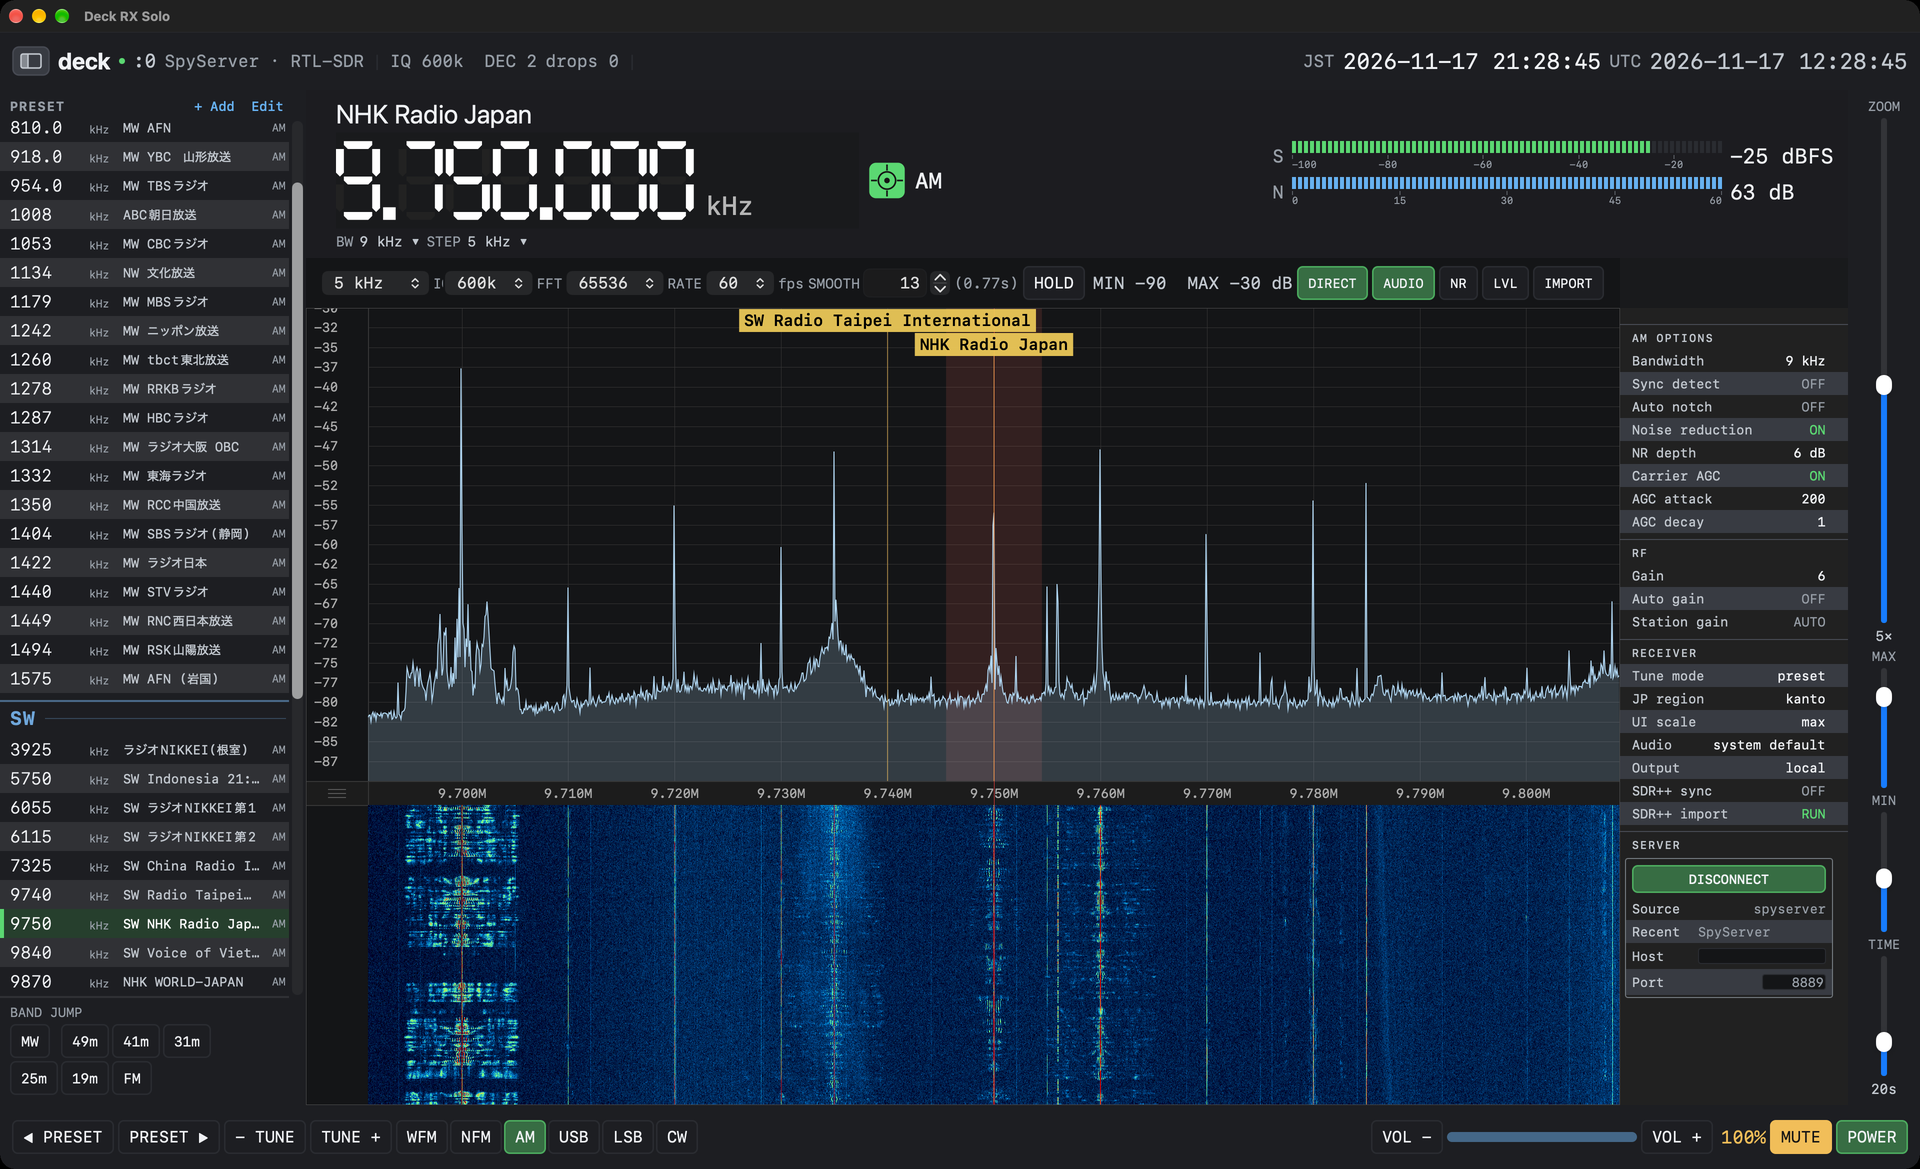
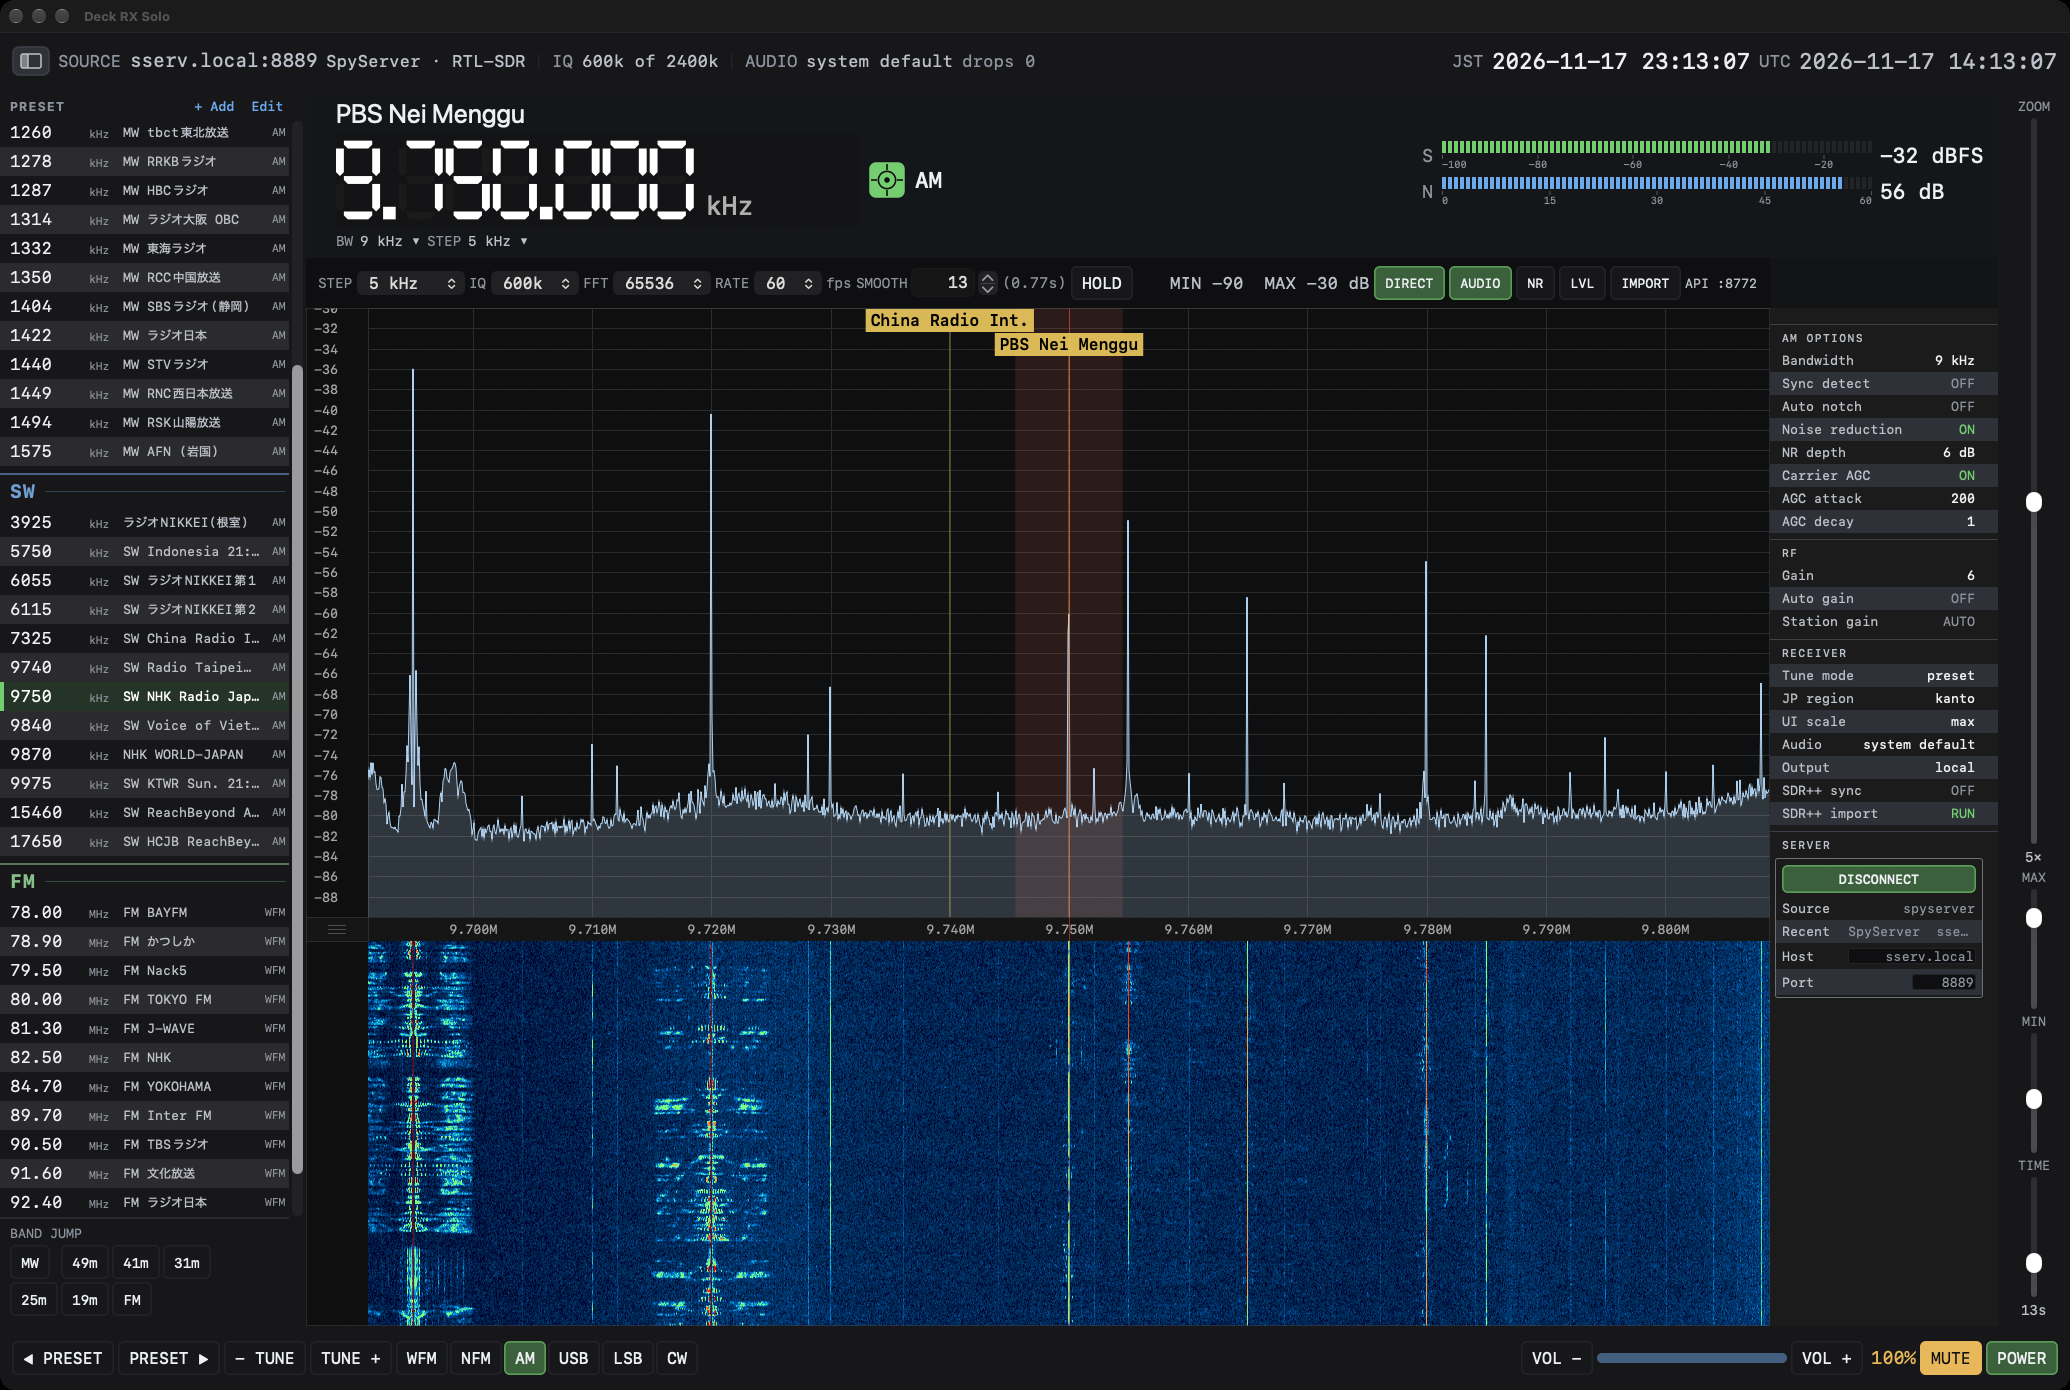
fix(app): the Mac top bar says what each reading is; Solo's address was ":0"
The bar opened with a "deck" wordmark and a 6 pt dot that nothing said was
the link lamp. In Solo the address after them read ":0": since 020b3c4 built
Solo's status from its own receiver, host and port were never filled in. The
bar now reads as tag / value pairs, the way JST and UTC already did:

  SOURCE sserv.local:8889 SpyServer · RTL-SDR | IQ 600k of 2400k |
  AUDIO system default drops 0

SOURCE is the server's address (USB for a USB source, "link down" in the
warning colour). IQ gives the rate against the device rate it is cut from,
in place of "DEC 2". AUDIO names the output; Solo's was always blank. Each
group has a tooltip.

The end of Solo's strip said "direct IQ 2400 k max audio 25.0 k serving ...",
cut off after "direct IQ 2…". It now says "API :<port>", or "LISTEN ONLY" when
another client has the device, with the details in the tooltip. LISTEN ONLY
also gets its warning colour: the next line had been setting it straight back
to dim.

docs/solo-window.png is retaken with the new bar.

diff --git a/native-app/Sources/main.swift b/native-app/Sources/main.swift
@@ -351,12 +351,18 @@ final class MainView: NSView {
 
     private let clockJST = label("—", mono(22), P.text)
     private let clockUTC = label("—", mono(22), P.dim)
-    private let linkDot = panelView(P.faint)
+    // The top bar reads as tag / value pairs, as JST and UTC always have: a
+    // faint tag names what the brighter value after it is. It used to open
+    // with a "deck" wordmark and a 6 pt dot with no word to say the dot was the
+    // link lamp, and the address beside them read ":0" in Solo.
+    private let sourceTag = label("SOURCE", mono(17), P.faint)
     private let linkLabel = label("—", mono(19), P.dim)
-    private let deviceLabel = label("—", mono(17), P.faint)
-    private let iqLabel = label("—", mono(17), P.faint)
+    private let deviceLabel = label("—", mono(17), P.dim)
+    private let iqTag = label("IQ", mono(17), P.faint)
+    private let iqLabel = label("—", mono(17), P.dim)
+    private let audioTag = label("AUDIO", mono(17), P.faint)
+    private let outLabel = label("—", mono(17), P.dim)
     private let dropsLabel = label("—", mono(17), P.faint)
-    private let outLabel = label("—", mono(17), P.faint)
 
     private let stationLabel = label("—", .systemFont(ofSize: max(11, UI.H(26))), P.text)
     private let freqView = FreqView(frame: .zero)
@@ -522,10 +528,9 @@ final class MainView: NSView {
         // wrong, answered without opening a log.
         func sep() -> NSView { label("|", mono(15), P.line) }
         var topViews: [NSView] = [
-            label("deck", .systemFont(ofSize: max(9, S(23)), weight: .bold), P.text),
-            linkDot, linkLabel, deviceLabel,
-            sep(), iqLabel, dropsLabel,
-            sep(), outLabel,
+            sourceTag, linkLabel, deviceLabel,
+            sep(), iqTag, iqLabel,
+            sep(), audioTag, outLabel, dropsLabel,
             NSView(),
             label("JST", mono(17), P.faint), clockJST,
             label("UTC", mono(17), P.faint), clockUTC,
@@ -551,12 +556,16 @@ final class MainView: NSView {
             v.lineBreakMode = .byTruncatingTail
             v.cell?.usesSingleLineMode = true
         }
-        linkDot.layer?.cornerRadius = 3
-        linkDot.translatesAutoresizingMaskIntoConstraints = false
-        NSLayoutConstraint.activate([
-            linkDot.widthAnchor.constraint(equalToConstant: 6),
-            linkDot.heightAnchor.constraint(equalToConstant: 6),
-        ])
+        for (views, tip) in [
+            ([sourceTag, linkLabel, deviceLabel],
+             "Where the IQ comes from: the server's address and what it serves, or USB. Shown in the warning colour while the link is down."),
+            ([iqTag, iqLabel],
+             "The IQ rate the receiver works at, and the device's rate it is decimated from."),
+            ([audioTag, outLabel, dropsLabel],
+             "Where the sound goes, and how many times the output has run dry since launch."),
+        ] as [([NSView], String)] {
+            for v in views { v.toolTip = tip }
+        }
         embed(topRow, in: top, inset: S(12))
 
         // frequency header
@@ -1366,25 +1375,33 @@ final class MainView: NSView {
 
         let s = Receiver.status()
         let live = s.fresh && s.connected && s.enabled
-        linkDot.layer?.backgroundColor = (live ? P.accent : P.faint).cgColor
         linkLabel.stringValue = s.fresh
-            ? (s.connected ? "\(s.host):\(s.port)" : "link down")
+            ? (s.connected ? (s.host.isEmpty ? "USB" : "\(s.host):\(s.port)") : "link down")
             : "receiver not running"
         linkLabel.textColor = s.fresh && s.connected ? P.dim : P.warn
-        deviceLabel.stringValue = s.device
+        deviceLabel.stringValue = s.connected ? s.device : ""
+        // "600k of 2400k" rather than "600k DEC 2": the stage is the power of
+        // two the device rate is divided by, which nobody reads at a glance.
         iqLabel.stringValue = s.iqRateHz > 0
-            ? String(format: "IQ %.0fk  DEC %d", s.iqRateHz / 1000, s.decStage) : ""
+            ? String(format: "%.0fk of %.0fk", s.iqRateHz / 1000,
+                     s.iqRateHz * pow(2, Double(s.decStage)) / 1000)
+            : "—"
         adoptIqLadder(rateHz: s.iqRateHz, stage: s.decStage, choices: s.iqChoices)
         dropsLabel.stringValue = s.iqRateHz > 0 ? "drops \(s.audioDrops)" : ""
         // A non-zero drop count is the audible-glitch signature, so it stops
         // being a grey footnote the moment it moves off zero.
         dropsLabel.textColor = s.audioDrops > 0 ? P.warn : P.faint
-        if s.audioSink == "icecast" {
-            outLabel.stringValue = "OUT ICECAST"
+        switch s.audioSink {
+        case "icecast":
+            outLabel.stringValue = "Icecast"
             outLabel.textColor = P.accent
-        } else {
-            outLabel.stringValue = s.audioDevice.isEmpty ? "" : "OUT \(s.audioDevice)"
-            outLabel.textColor = P.faint
+        case "off":
+            outLabel.stringValue = "off"
+            outLabel.textColor = P.dim
+        default:
+            // Empty is the system's default output, as the options panel says.
+            outLabel.stringValue = s.audioDevice.isEmpty ? "system default" : s.audioDevice
+            outLabel.textColor = P.dim
         }
 
         freqView.set(freqHz: s.freqHz)
@@ -2088,6 +2105,16 @@ final class AppDelegate: NSObject, NSApplicationDelegate, NSWindowDelegate {
                 s.volume = self.radio.volume
                 s.muted = self.radio.muted
                 s.device = self.radio.deviceInfo != nil ? self.radio.deviceLabel : ""
+                // The address the top bar names. It came with the plugin's feed
+                // until this status was built from the receiver alone (020b3c4),
+                // and from then on the bar read ":0". A USB source has no
+                // address; the bar says so instead.
+                if RadioConfig.hasAddress(self.radio.config.source) {
+                    s.host = self.radio.config.host
+                    s.port = self.radio.config.port
+                }
+                // The output this receiver plays to, for the bar's AUDIO.
+                s.audioDevice = self.radio.config.audioDevice
                 s.audioSink = self.radio.audioEnabled ? "local" : "off"
                 // The meters and the drop count are this receiver's own while
                 // it is running. They were left at whatever the plugin's feed
@@ -2168,9 +2195,23 @@ final class AppDelegate: NSObject, NSApplicationDelegate, NSWindowDelegate {
                 ? (server.portBusy ? " serving :\(server.servingPort)" : " serving")
                 : (server.portBusy ? " (no control port)" : "")
             let r = radio.deviceInfo.map { "IQ \(Int(Double($0.maxSampleRate) / 1000)) k max" } ?? ""
-            view.srcLabel.stringValue = "direct \(r)\(a)\(srv)\(ctl)"
+            // What fits at the end of the strip: the warning when tuning is not
+            // ours, otherwise the control port. It used to be all of the
+            // tooltip's line, led by "direct", cut off after "direct IQ 2…";
+            // the device's top rate is in the top bar now.
+            // About a dozen characters fit there, so the words are short and the
+            // tooltip says the rest.
+            view.srcLabel.stringValue = radio.canControl
+                ? (server.isServing ? "API :\(server.servingPort)"
+                                    : (server.portBusy ? "no API port" : ""))
+                : "LISTEN ONLY"
+            view.srcLabel.toolTip = (radio.canControl
+                ? "The HTTP control port a knob or a script drives this window on. "
+                : "Another client has the device: this window hears it but cannot tune it. ")
+                + "\(r)\(a)\(srv)".trimmingCharacters(in: .whitespaces)
+            // Was set to the warning colour and then straight back to dim on
+            // the next line, so LISTEN ONLY never showed as a warning.
             view.srcLabel.textColor = radio.canControl ? P.dim : P.warn
-            view.srcLabel.textColor = P.dim
         } else {
             view.srcLabel.stringValue = "connecting..."
             view.srcLabel.textColor = P.faint
